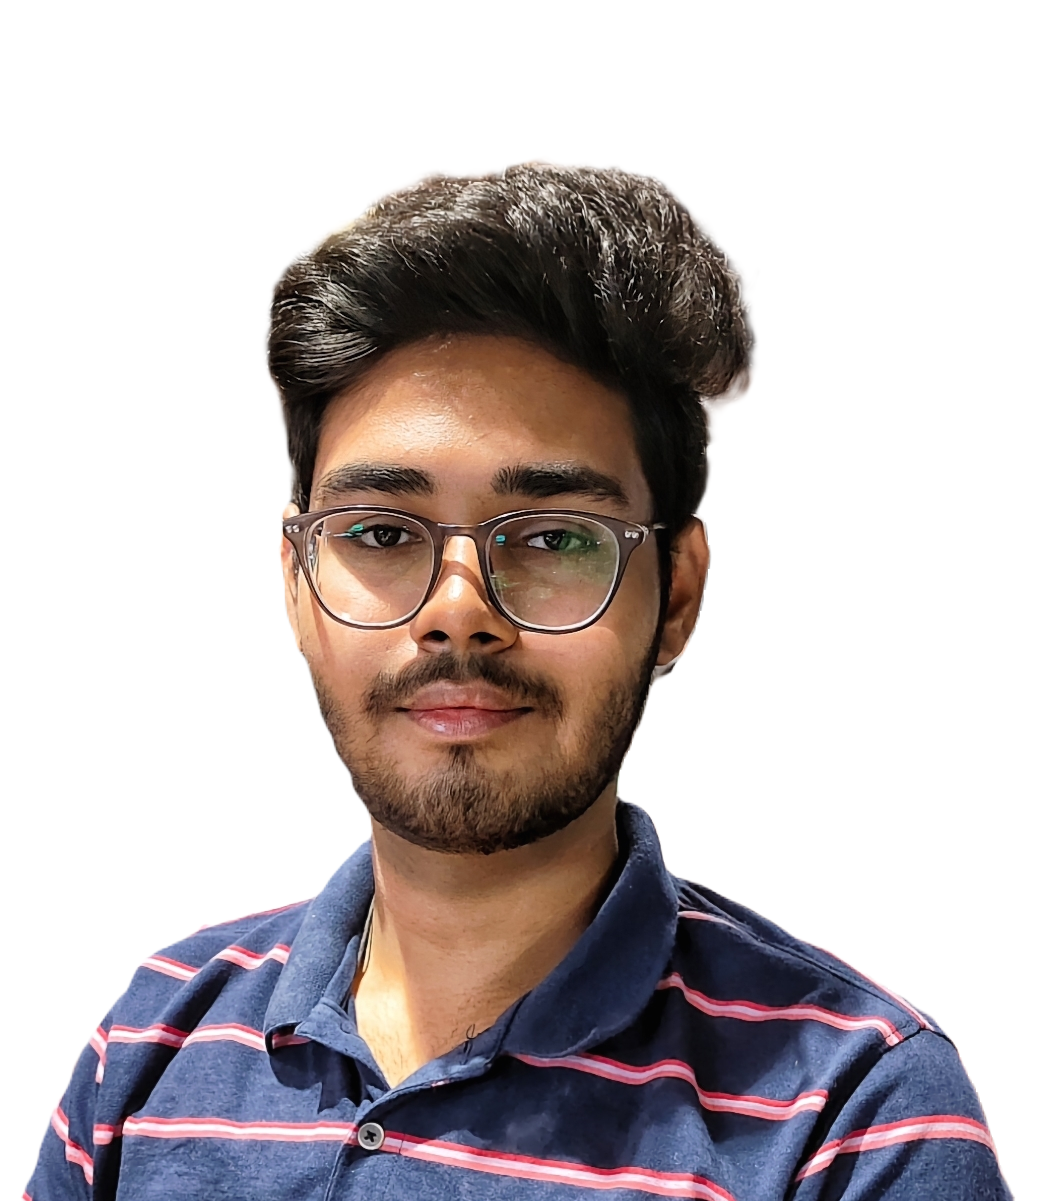
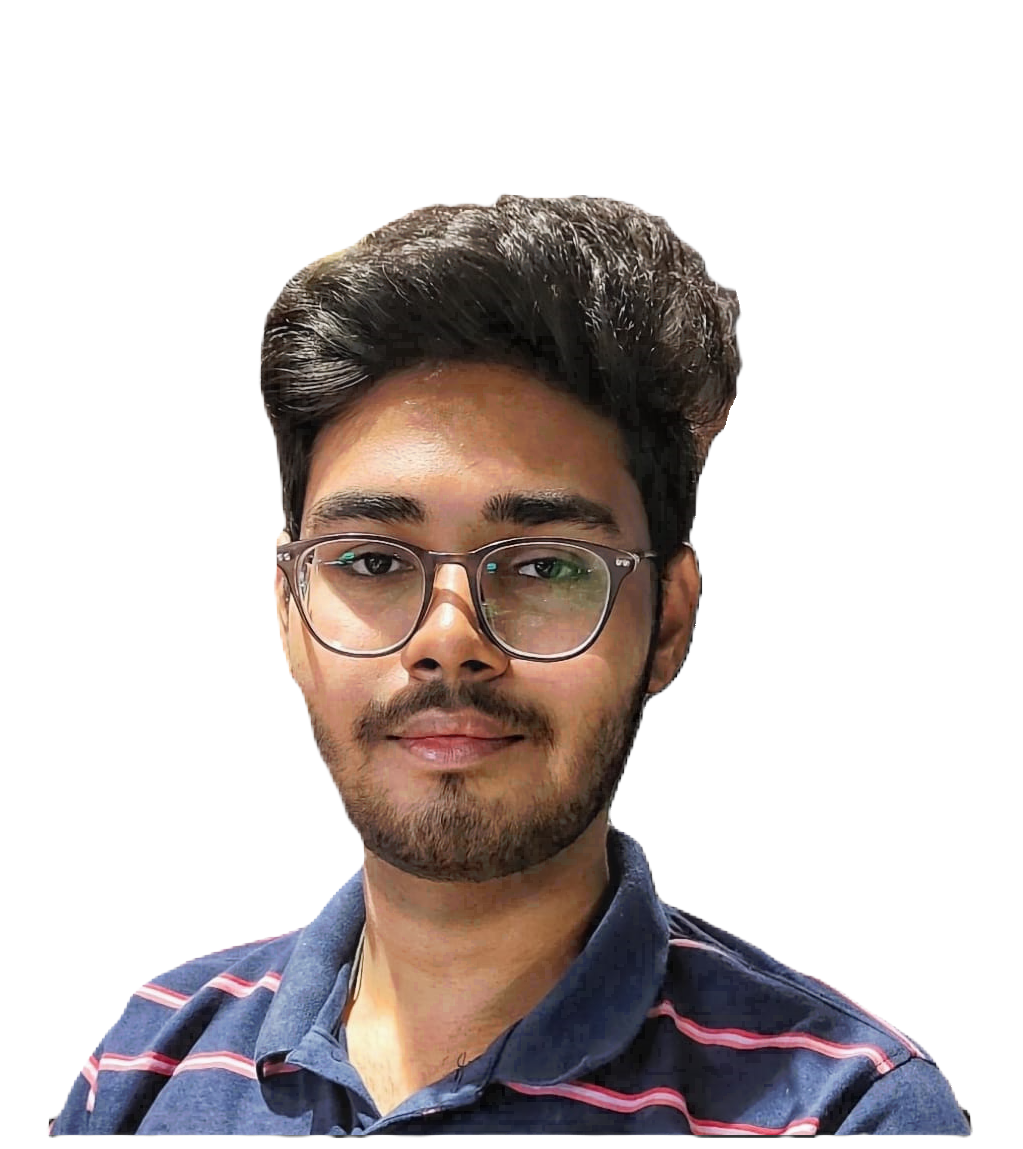
major updates

diff --git a/src/components/about.js b/src/components/about.js
@@ -1,4 +1,4 @@
-import profile_pic from "../vj.png"
+import profile_pic from "../about-pic.jpg"
 
 const AboutPage = (props) => {
     return (
@@ -13,34 +13,36 @@ const AboutPage = (props) => {
                         <img src={profile_pic} />
                     </div>
                     <div className='about1-content'>
-                        <p><span className='info'>Name:</span> Viraj Desai</p>
-                        <p><span className='info'>Qualification:</span> BTech Computer Science</p>
-                        <p><span className='info'>Experience:</span> Fresher</p>
-                        <p><span className='info'>Interest:</span> Artificial Intelligence, Data Science, Full Stack Development</p>
-                        <p><span className='info'>Location:</span> Ahmedabad, Gujarat</p>
+                        <p><span className='info'>Name :-</span><br />Viraj Desai</p>
+                        <span className='info'>Qualification :-</span>BTech Computer Science Engineering
+                        <p><span className='info'>Experience :-</span><br />Fresher</p>
+                        <span className='info'>Interest :-</span>Artificial Intelligence, Data Science, Full Stack Development
+                        <p><span className='info'>Location :-</span><br /> Ahmedabad, Gujarat, India</p>
                     </div>
                 </div>
 
                 <div className='about2'>
                     <div className='about2-content'>
                         I'm Viraj Desai, an enthusiastic Computer Science Engineering student with a strong inclination towards utilizing technology for addressing real-world challenges. Presently enrolled in my Bachelor's program at Pandit Deendayal Energy University, Gandhinagar, I am captivated by the constantly evolving realm of computer science.
+                        <br /><br />
+                        Educational Background :-
                         <br />
-                        Educational Background:
                         My academic journey has endowed me with a robust grasp of fundamental computer science principles, encompassing algorithms, data structures, programming languages, and software engineering tenets. I have consistently pursued academic excellence, maintaining a commendable GPA while actively participating in extracurricular pursuits that complement my studies.
 
                         <br /><br />
-                        Technical Proficiency:
+                        Technical Proficiency :-
                         <br />
                         <ul>
-                            <li>Proficiency in programming languages such as Java, Python, C++, and JavaScript.</li>
+                            <li>Proficiency in programming languages such as Python, JavaScript, Kotlin, Java, C and C++.</li>
                             <br />
-                            <li>Hands-on experience in crafting web applications using HTML, CSS, and diverse frontend and backend frameworks.<br /></li>
+                            <li>Hands-on experience in crafting full stack web applications using HTML, CSS, and frameworks such as ReactJS, NodeJS, Flask, Django.<br /></li>
+                            <br />
+                            <li>Strong fundamentals and practical knowledge, skills in machine learning and artificial intelligence, demonstrated through practical implementation of algorithms and models.</li>
                             <br />
                             <li>Proficient in managing database systems including MySQL, MongoDB, and PostgreSQL.</li>
                             <br />
-                            <li>Acquaintance with cloud computing platforms like AWS and Azure, coupled with practical expertise in application deployment and management.</li>
-                            <br />
-                            <li>Familiarity with machine learning and artificial intelligence principles, demonstrated through practical implementation of algorithms and models.</li>
+                            <li>Practical expertise in cloud services such as AWS and application deployment and management.</li>
+
                         </ul>
                     </div>
                 </div>

diff --git a/src/components/css/about.css b/src/components/css/about.css
@@ -33,23 +33,32 @@
 .about1 {
   display: flex;
   position: relative;
-  width: 40%;
+
+  margin-left: 2%;
+  width: 50%;
   height: 100%;
   border-right: 1px solid rgb(82, 82, 82);
+
+  /* overflow-y: scroll; */
 }
 
 .about1-img {
   position: relative;
-  width: 40%;
+  display: flex;
+  width: 30%;
   height: 100%;
+  justify-content: center;
+  align-items: center;
 }
 
 .about1-img>img {
+
   position: relative;
-  height: 100%;
+  height: 70%;
   width: 100%;
   background-color: transparent;
-  /* border: 1px solid white; */
+  border-radius: 10px;
+  
 }
 
 .about1-content {
@@ -63,13 +72,11 @@
 
   padding-left: 5%;
   justify-content: center;
-  /* align-items: center; */
 
   font-size: larger;
   font-weight: 500;
 
   color: wheat;
-  /* border-left: 1px solid yellow; */
 
 }
 
@@ -82,29 +89,47 @@
   display: flex;
   position: relative;
 
-  /* flex-direction: column; */
-
   justify-content: center;
   align-items: center;
 
-  width: 60%;
+  width: 50%;
   height: 100%;
 
-  /* margin-bottom: 100%; */
-  /* border-right: 2px solid rgb(255, 255, 255); */
   color: wheat;
 
   overflow-y: hidden;
 
 }
 
-.about2-content :hover {
-  cursor: all-scroll;
-}
-
 .about2-content {
+  margin: 10%;
   width: 90%;
   height: 85%;
   overflow-y: auto;
-  /* background-color: aqua; */
+}
+
+.about2-content :hover {
+  cursor: auto;
+}
+
+.about2-content::-webkit-scrollbar {
+  width: 7px;
+  background-color: rgb(20, 0, 75);
+}
+
+.about2-content::-webkit-scrollbar-track {
+  height: 5px;
+  width: 5px;
+  border-radius: 5px;
+
+}
+
+.about2-content::-webkit-scrollbar-thumb {
+  /* height: 1px; */
+  background-color: rgb(60, 60, 60);
+  border-radius: 10px;
+}
+
+.about2-content::-webkit-scrollbar-thumb:hover {
+  background-color: rgb(36, 36, 36);
 }
